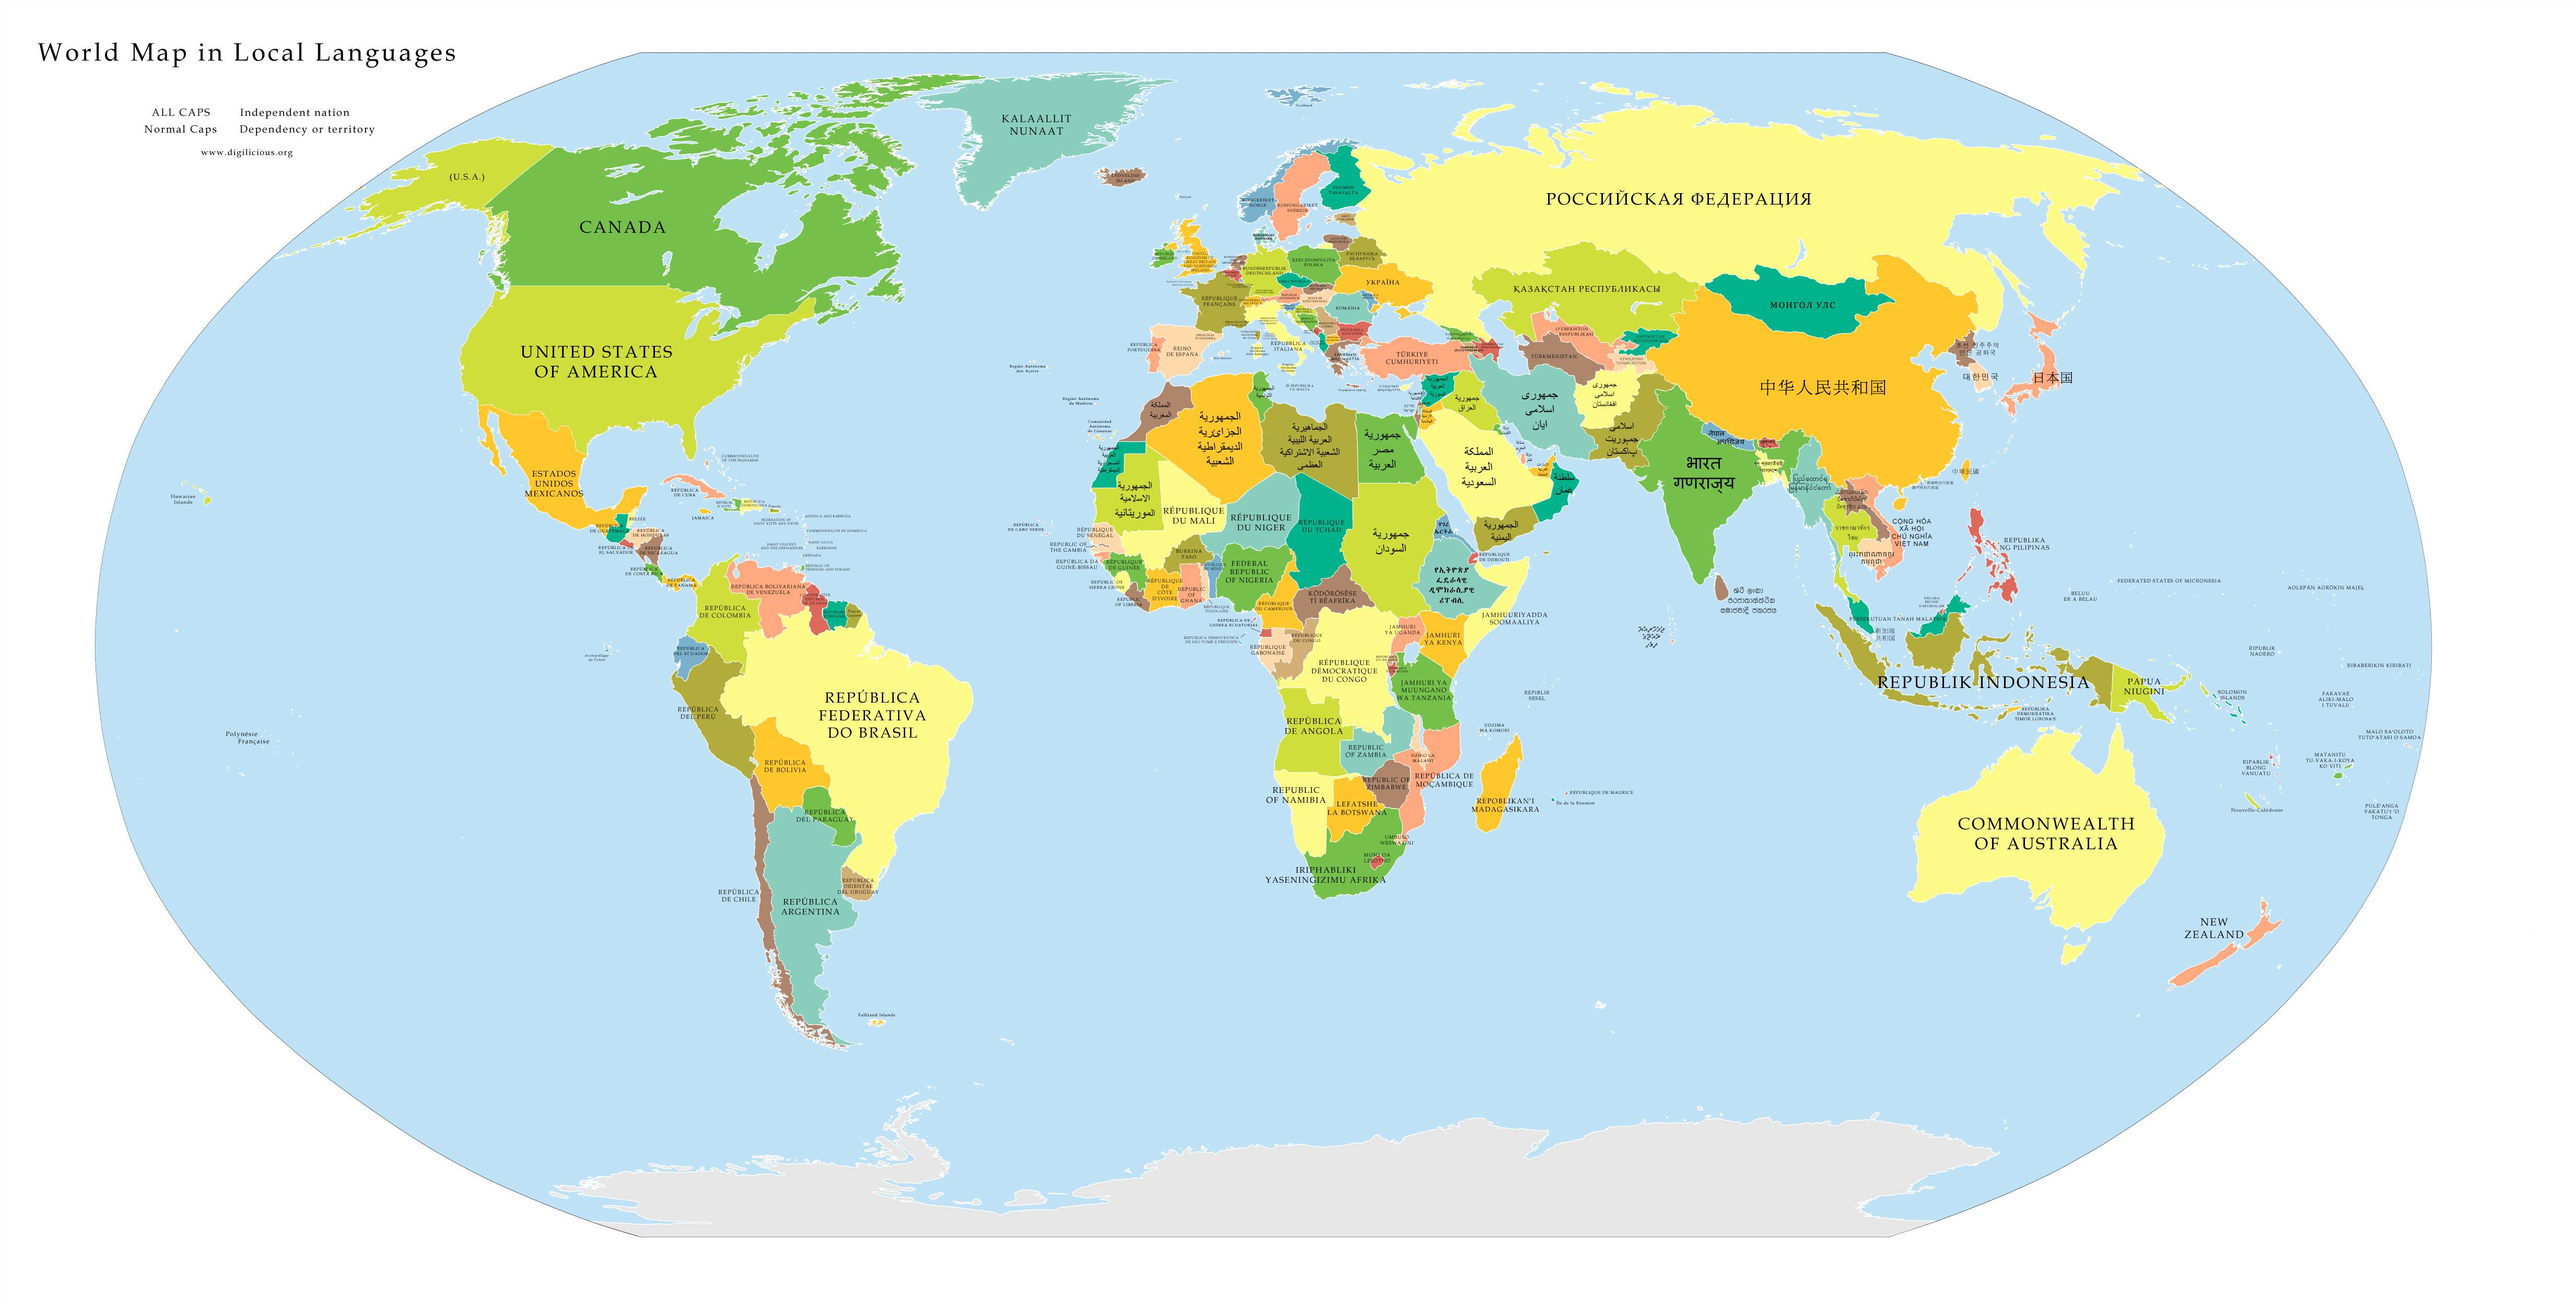
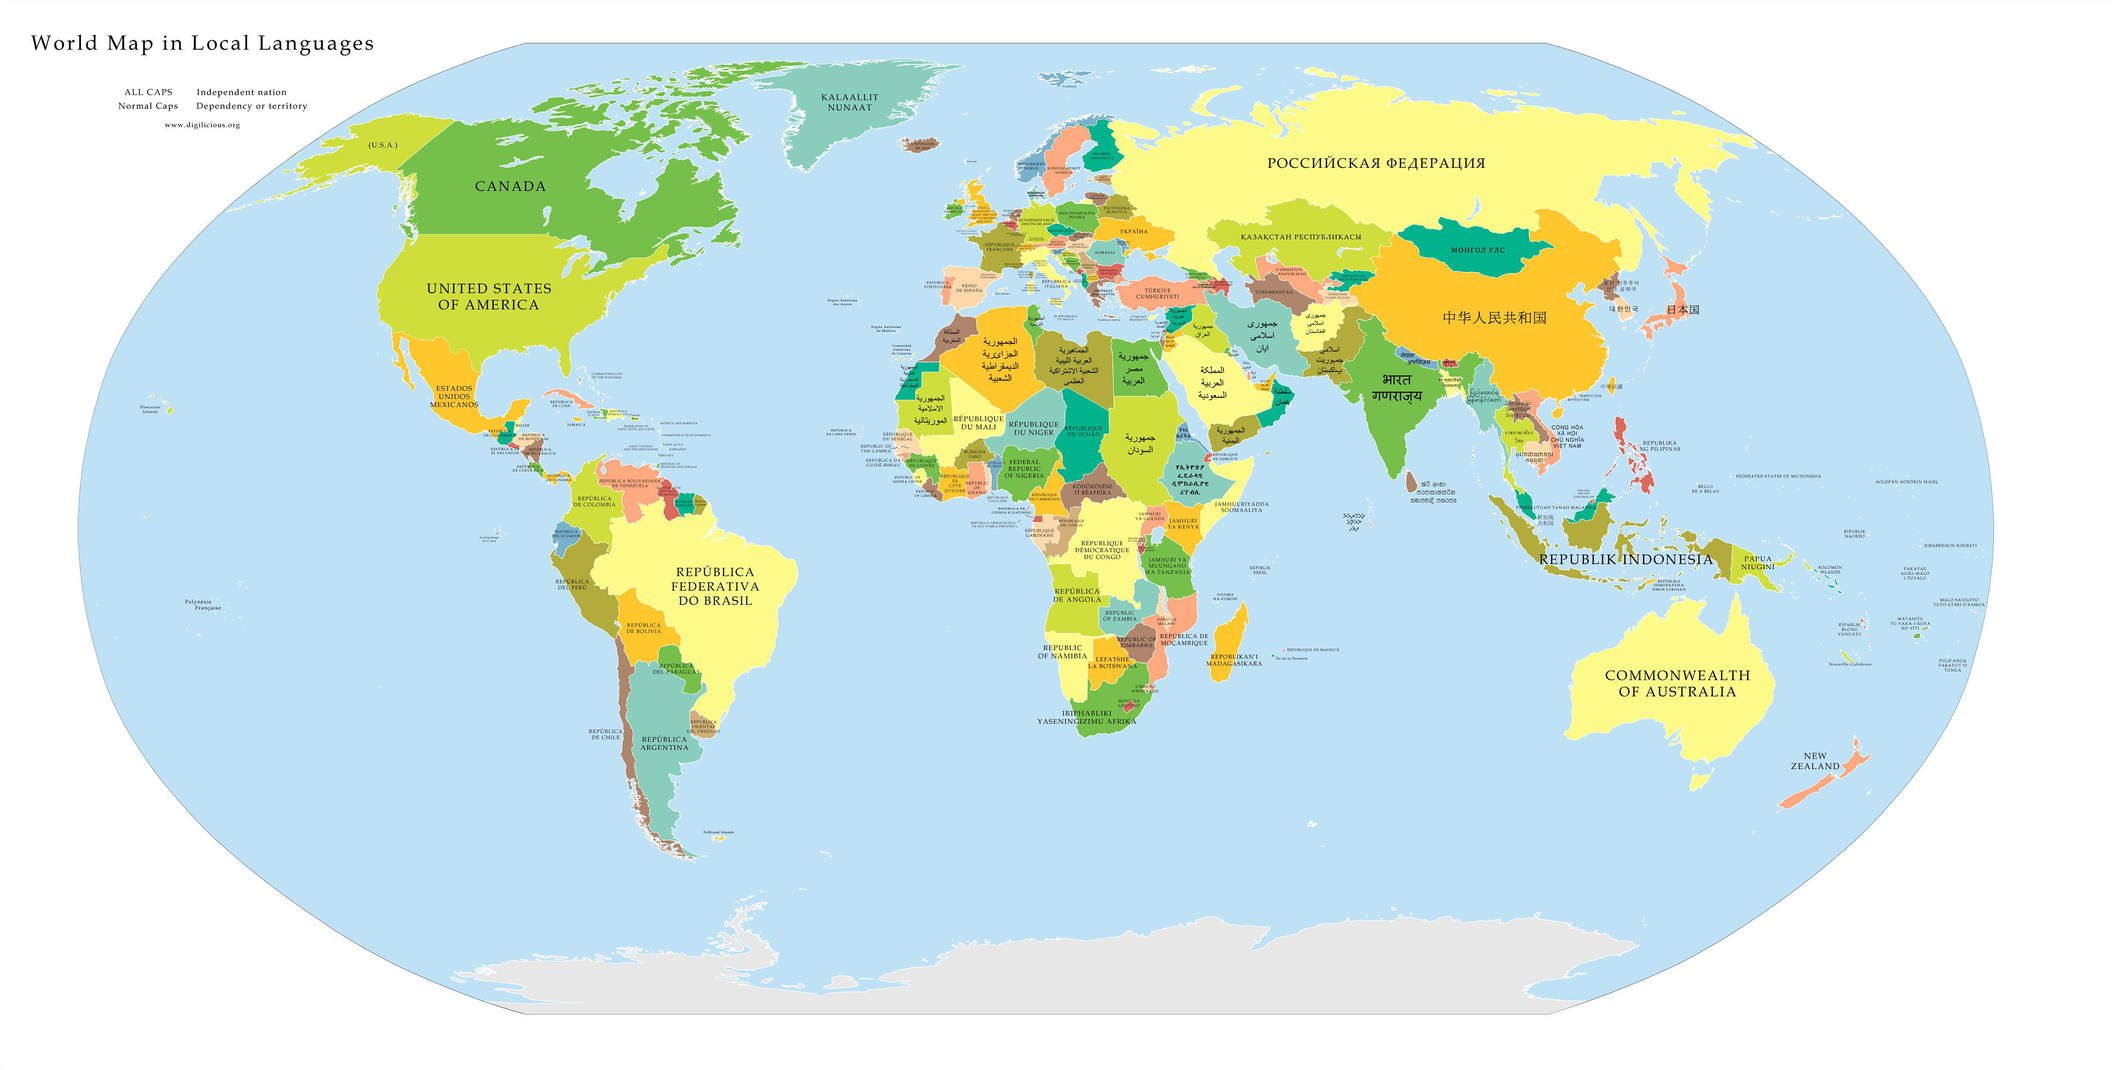
map size

diff --git a/index.html b/index.html
@@ -8,6 +8,6 @@
     <link rel="stylesheet" href="stylesheet.css">
 </head>
 <body class="background">
-    <img style="height: 2050px;width: 4045px;"src="./MAP.jpg">
+    <img src="./MAP.jpg">
 </body>
 </html>
